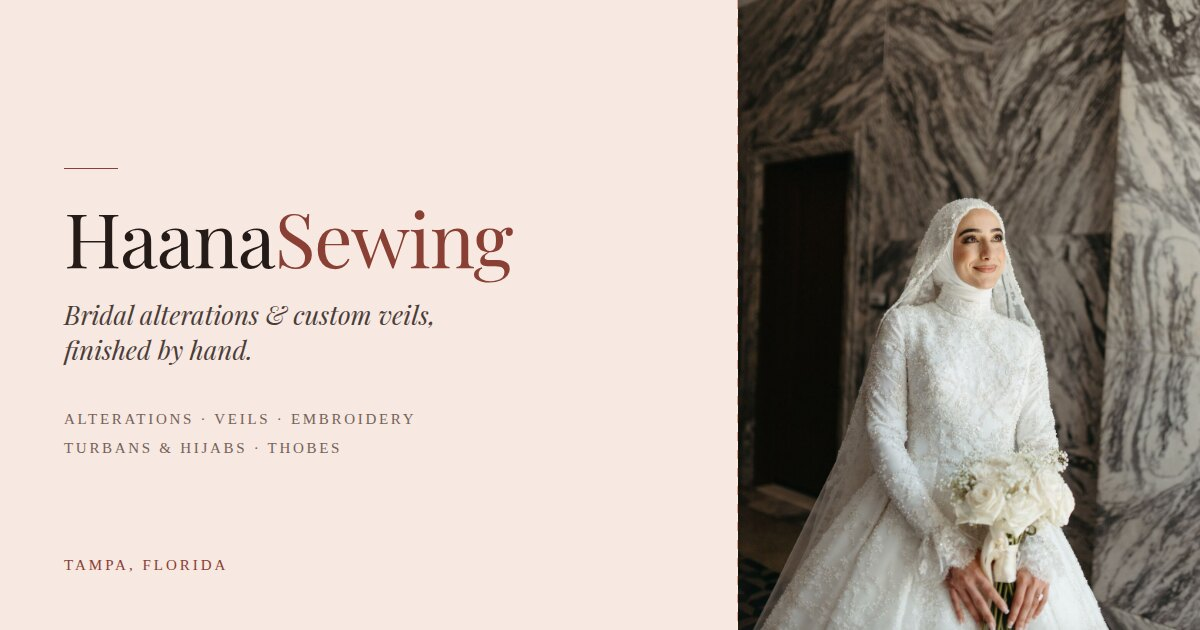
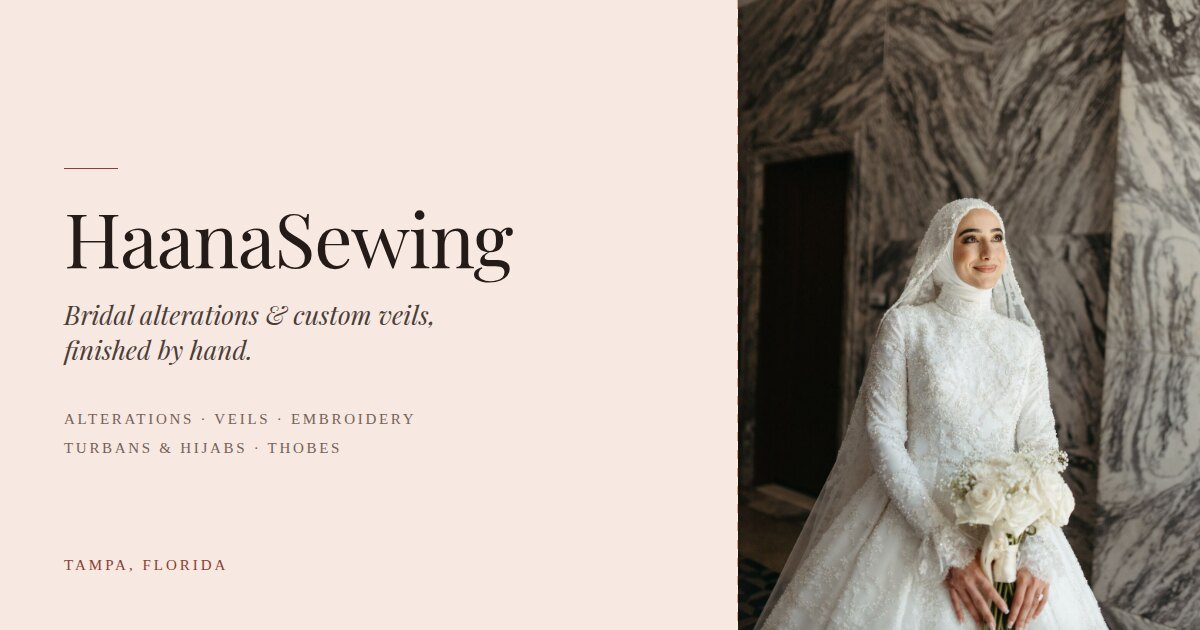
Wordmark is one colour, not two-tone
Omar: "make the Hanna sewing name all black." The "Sewing" half was russet
(--thread) against an ink "Haana".

Set to `inherit` rather than a literal black, in four places:
  - .wordmark span in the main stylesheet
  - .wordmark span again in the couture block, which redefines it
  - .intro-mark span on the intro curtain
  - .mark span on the 404 page
plus the social card.

inherit matters. A hardcoded #000 would be near-invisible in dark mode, where
--ink is #EDE4DF, and outright invisible on the intro curtain, which is a dark
ground with cream type. Inheriting means the name is a single colour on every
surface and in every theme: near-black #251C19 in light, cream in dark.

Verified both themes by screenshot.

Claude-Session: https://claude.ai/code/session_01QMQGgJ49GJVgbpZJub5Knr

Changed region(s): [[0.2158, 0.3317, 0.4317, 0.4524]]

diff --git a/index.html b/index.html
@@ -149,7 +149,7 @@
   header.site { padding: 2.25rem 0 0; }
   .brandbar { display: flex; justify-content: space-between; align-items: baseline; gap: 1rem; flex-wrap: wrap; }
   .wordmark { font-size: 1.35rem; letter-spacing: .04em; }
-  .wordmark span { color: var(--thread); }
+  .wordmark span { color: inherit; }
   nav.site { display: flex; gap: 1.6rem; flex-wrap: wrap; }
   nav.site a { color: var(--ink-soft); text-decoration: none; font-size: 14px; }
   nav.site a:hover { color: var(--thread); }
@@ -276,7 +276,7 @@
     body { font-size: 16px; }
   }
 /* Couture pattern-room redesign */
-:root{--ground:#F7E8E1;--surface:#FDF6F3;--surface-2:#EEDBD3;--ink:#251C19;--ink-soft:#4B3D39;--ink-mute:#756259;--line:#E4CEC4;--thread:#8A4034;--thread-soft:#A9C4D0;--deep:#33231E;--deep-ink:#F5EDE8;--focus:#8A4034}.draft,.buildnote{display:none}body{background:var(--ground);font-family:Optima,Avenir,"Segoe UI",sans-serif}.wrap{width:min(1180px,100% - 3.5rem)}header.site{position:relative;z-index:4;padding:1.55rem 0;background:var(--ground)}.brandbar{align-items:center}.wordmark{font-size:1.55rem;letter-spacing:.1em}.wordmark span{color:var(--thread)}nav.site a{font-size:11px;letter-spacing:.14em;text-transform:uppercase}.hero{position:relative;overflow:hidden;padding:clamp(4rem,10vw,8rem) 0 5.5rem;background:var(--deep);color:var(--deep-ink)}.hero:before{content:"";position:absolute;width:70vw;height:70vw;right:-25vw;top:-42vw;border:1px solid #A9C4D048;border-radius:50%;box-shadow:0 0 0 50px #A9C4D009,0 0 0 100px #A9C4D008,0 0 0 150px #A9C4D006;animation:orbit 14s ease-in-out infinite alternate}.hero:after{content:"";position:absolute;inset:0;background:repeating-linear-gradient(135deg,transparent 0 23px,#ffffff06 24px 25px);pointer-events:none}.hero-grid{position:relative;z-index:1;grid-template-columns:1fr .78fr;gap:7vw;align-items:center}.hero .label{color:var(--thread-soft)}.hero h1{font-size:clamp(3.6rem,8vw,7.5rem);line-height:.83;letter-spacing:-.065em}.hero h1 em{color:var(--thread-soft)}.hero .sub{font-size:1.08rem;line-height:1.7;color:#DFD1CA}.btn{border-radius:999px;padding:.9rem 1.55rem;font-size:11px;transition:transform .25s ease,box-shadow .25s ease}.btn-fill{background:var(--thread-soft);border-color:var(--thread-soft);color:#22140F}.btn-fill:hover{transform:translateY(-4px);background:var(--thread-soft);color:#22140F;box-shadow:0 10px 20px #0004}.btn-line{border-color:#F5EDE877;color:#F5EDE8}.hero .piece{height:min(50vw,580px);aspect-ratio:auto;justify-content:flex-end;border:1px solid #A9C4D070;border-radius:45% 45% 9% 9% / 18% 18% 5% 5%;background-color:#4A3C38;background-image:radial-gradient(ellipse at 50% 110%,#A9C4D035 0 30%,transparent 31%),repeating-linear-gradient(90deg,transparent 0 19px,#ffffff08 20px 21px);overflow:hidden;box-shadow:inset 0 0 0 12px #ffffff05,20px 24px 0 #0002}.hero .piece:after{content:"";position:absolute;inset:11% 17% 20%;border:1px solid #A9C4D070;border-radius:48% 48% 2% 2% / 20% 20% 2% 2%;transform:rotate(4deg)}.hero .piece .pname,.hero .piece .pnote{position:relative;z-index:2;color:#F5EDE8}.stitch{opacity:.7}.stitch-gold{background-image:repeating-linear-gradient(90deg,var(--thread) 0 9px,transparent 9px 17px)}section{padding:clamp(4rem,8vw,7rem) 0}.sec-head{margin-bottom:3.4rem}.sec-head h2{font-size:clamp(2.5rem,5vw,4.2rem);line-height:.92;letter-spacing:-.05em}.gallery{grid-template-columns:1.12fr .88fr 1fr;gap:1.15rem}.gallery .piece{border:0;border-radius:2px;background-color:#F1D3C8;background-image:linear-gradient(140deg,#ffffff4d,transparent 45%),repeating-linear-gradient(45deg,transparent 0 12px,#33231E10 13px 14px);box-shadow:0 12px 22px #33231E10;transition:transform .4s cubic-bezier(.2,.8,.2,1),box-shadow .4s}.gallery .piece:nth-child(2n){background-color:#C4D6DE}.gallery .piece:nth-child(3n){background-color:#DDCEC6}.gallery .piece:hover{transform:translateY(-9px) rotate(-1.2deg);box-shadow:0 23px 36px #33231E22}.gallery .piece::before{inset:13px;border-color:#fff9}.gallery .piece .pname{position:relative;font-family:Didot,Bodoni,Georgia,serif;font-size:1.45rem;letter-spacing:-.03em;color:#251C19}.gallery .piece .pnote{position:relative;color:#4B3D39}.gallery .piece.tall{aspect-ratio:4/10.4}.services{border-top:1px solid var(--line)}.svc{position:relative;padding:2rem .5rem;transition:padding .3s ease,background .3s}.svc:hover{padding-inline:1.4rem;background:var(--surface)}.svc h3{font-size:1.9rem}.price{color:var(--thread);font-family:Didot,Bodoni,Georgia,serif;font-size:1.5rem}.steps{gap:0;background:var(--deep);padding:1px}.step{position:relative;padding:2.3rem;background:#33231E;color:#F5EDE8;border:0;overflow:hidden}.step:nth-child(2){background:#4A3C38}.step:nth-child(3){background:#5E3A33}.step:after{content:"";position:absolute;width:150px;height:150px;right:-55px;bottom:-75px;border-radius:50%;border:1px solid #A9C4D065}.step .n{color:var(--thread-soft);font-size:3rem}.step h3{color:#fff}.step p{color:#DFD1CA}.faq{border-top:1px solid var(--line)}.faq details{transition:padding .2s}.faq details[open]{padding-left:1rem;background:var(--surface)}.faq summary{font-family:Didot,Bodoni,Georgia,serif;font-size:1.25rem}.closing{position:relative;overflow:hidden;background:var(--deep);padding:7rem 0}.closing:before{content:"✦";position:absolute;right:8vw;top:-1.3em;color:#A9C4D01c;font-size:25rem;line-height:1}.closing h2{font-size:clamp(3.5rem,7vw,6rem);line-height:.85}.closing .btn-line:hover{color:var(--deep-ink)}footer.site{background:var(--ground)}.rise{animation:rise .8s cubic-bezier(.2,.7,.3,1) both}.rise:nth-child(2){animation-delay:.12s}.rise:nth-child(3){animation-delay:.24s}@keyframes orbit{to{transform:translate(-80px,90px) scale(1.08)}}@media(max-width:860px){.hero-grid{grid-template-columns:1fr}.hero .piece{height:370px}.gallery{grid-template-columns:repeat(2,1fr)}.gallery .piece.tall{grid-row:auto;aspect-ratio:4/5}}@media(max-width:520px){.wrap{width:calc(100% - 2.4rem)}.hero{padding-top:4rem}.hero .piece{height:290px}.gallery{gap:.7rem}.gallery .piece .pname{font-size:1.1rem}.svc{grid-template-columns:1fr}.price{margin-top:.3rem}}
+:root{--ground:#F7E8E1;--surface:#FDF6F3;--surface-2:#EEDBD3;--ink:#251C19;--ink-soft:#4B3D39;--ink-mute:#756259;--line:#E4CEC4;--thread:#8A4034;--thread-soft:#A9C4D0;--deep:#33231E;--deep-ink:#F5EDE8;--focus:#8A4034}.draft,.buildnote{display:none}body{background:var(--ground);font-family:Optima,Avenir,"Segoe UI",sans-serif}.wrap{width:min(1180px,100% - 3.5rem)}header.site{position:relative;z-index:4;padding:1.55rem 0;background:var(--ground)}.brandbar{align-items:center}.wordmark{font-size:1.55rem;letter-spacing:.1em}.wordmark span{color:inherit}nav.site a{font-size:11px;letter-spacing:.14em;text-transform:uppercase}.hero{position:relative;overflow:hidden;padding:clamp(4rem,10vw,8rem) 0 5.5rem;background:var(--deep);color:var(--deep-ink)}.hero:before{content:"";position:absolute;width:70vw;height:70vw;right:-25vw;top:-42vw;border:1px solid #A9C4D048;border-radius:50%;box-shadow:0 0 0 50px #A9C4D009,0 0 0 100px #A9C4D008,0 0 0 150px #A9C4D006;animation:orbit 14s ease-in-out infinite alternate}.hero:after{content:"";position:absolute;inset:0;background:repeating-linear-gradient(135deg,transparent 0 23px,#ffffff06 24px 25px);pointer-events:none}.hero-grid{position:relative;z-index:1;grid-template-columns:1fr .78fr;gap:7vw;align-items:center}.hero .label{color:var(--thread-soft)}.hero h1{font-size:clamp(3.6rem,8vw,7.5rem);line-height:.83;letter-spacing:-.065em}.hero h1 em{color:var(--thread-soft)}.hero .sub{font-size:1.08rem;line-height:1.7;color:#DFD1CA}.btn{border-radius:999px;padding:.9rem 1.55rem;font-size:11px;transition:transform .25s ease,box-shadow .25s ease}.btn-fill{background:var(--thread-soft);border-color:var(--thread-soft);color:#22140F}.btn-fill:hover{transform:translateY(-4px);background:var(--thread-soft);color:#22140F;box-shadow:0 10px 20px #0004}.btn-line{border-color:#F5EDE877;color:#F5EDE8}.hero .piece{height:min(50vw,580px);aspect-ratio:auto;justify-content:flex-end;border:1px solid #A9C4D070;border-radius:45% 45% 9% 9% / 18% 18% 5% 5%;background-color:#4A3C38;background-image:radial-gradient(ellipse at 50% 110%,#A9C4D035 0 30%,transparent 31%),repeating-linear-gradient(90deg,transparent 0 19px,#ffffff08 20px 21px);overflow:hidden;box-shadow:inset 0 0 0 12px #ffffff05,20px 24px 0 #0002}.hero .piece:after{content:"";position:absolute;inset:11% 17% 20%;border:1px solid #A9C4D070;border-radius:48% 48% 2% 2% / 20% 20% 2% 2%;transform:rotate(4deg)}.hero .piece .pname,.hero .piece .pnote{position:relative;z-index:2;color:#F5EDE8}.stitch{opacity:.7}.stitch-gold{background-image:repeating-linear-gradient(90deg,var(--thread) 0 9px,transparent 9px 17px)}section{padding:clamp(4rem,8vw,7rem) 0}.sec-head{margin-bottom:3.4rem}.sec-head h2{font-size:clamp(2.5rem,5vw,4.2rem);line-height:.92;letter-spacing:-.05em}.gallery{grid-template-columns:1.12fr .88fr 1fr;gap:1.15rem}.gallery .piece{border:0;border-radius:2px;background-color:#F1D3C8;background-image:linear-gradient(140deg,#ffffff4d,transparent 45%),repeating-linear-gradient(45deg,transparent 0 12px,#33231E10 13px 14px);box-shadow:0 12px 22px #33231E10;transition:transform .4s cubic-bezier(.2,.8,.2,1),box-shadow .4s}.gallery .piece:nth-child(2n){background-color:#C4D6DE}.gallery .piece:nth-child(3n){background-color:#DDCEC6}.gallery .piece:hover{transform:translateY(-9px) rotate(-1.2deg);box-shadow:0 23px 36px #33231E22}.gallery .piece::before{inset:13px;border-color:#fff9}.gallery .piece .pname{position:relative;font-family:Didot,Bodoni,Georgia,serif;font-size:1.45rem;letter-spacing:-.03em;color:#251C19}.gallery .piece .pnote{position:relative;color:#4B3D39}.gallery .piece.tall{aspect-ratio:4/10.4}.services{border-top:1px solid var(--line)}.svc{position:relative;padding:2rem .5rem;transition:padding .3s ease,background .3s}.svc:hover{padding-inline:1.4rem;background:var(--surface)}.svc h3{font-size:1.9rem}.price{color:var(--thread);font-family:Didot,Bodoni,Georgia,serif;font-size:1.5rem}.steps{gap:0;background:var(--deep);padding:1px}.step{position:relative;padding:2.3rem;background:#33231E;color:#F5EDE8;border:0;overflow:hidden}.step:nth-child(2){background:#4A3C38}.step:nth-child(3){background:#5E3A33}.step:after{content:"";position:absolute;width:150px;height:150px;right:-55px;bottom:-75px;border-radius:50%;border:1px solid #A9C4D065}.step .n{color:var(--thread-soft);font-size:3rem}.step h3{color:#fff}.step p{color:#DFD1CA}.faq{border-top:1px solid var(--line)}.faq details{transition:padding .2s}.faq details[open]{padding-left:1rem;background:var(--surface)}.faq summary{font-family:Didot,Bodoni,Georgia,serif;font-size:1.25rem}.closing{position:relative;overflow:hidden;background:var(--deep);padding:7rem 0}.closing:before{content:"✦";position:absolute;right:8vw;top:-1.3em;color:#A9C4D01c;font-size:25rem;line-height:1}.closing h2{font-size:clamp(3.5rem,7vw,6rem);line-height:.85}.closing .btn-line:hover{color:var(--deep-ink)}footer.site{background:var(--ground)}.rise{animation:rise .8s cubic-bezier(.2,.7,.3,1) both}.rise:nth-child(2){animation-delay:.12s}.rise:nth-child(3){animation-delay:.24s}@keyframes orbit{to{transform:translate(-80px,90px) scale(1.08)}}@media(max-width:860px){.hero-grid{grid-template-columns:1fr}.hero .piece{height:370px}.gallery{grid-template-columns:repeat(2,1fr)}.gallery .piece.tall{grid-row:auto;aspect-ratio:4/5}}@media(max-width:520px){.wrap{width:calc(100% - 2.4rem)}.hero{padding-top:4rem}.hero .piece{height:290px}.gallery{gap:.7rem}.gallery .piece .pname{font-size:1.1rem}.svc{grid-template-columns:1fr}.price{margin-top:.3rem}}
 
   /* ================= Atelier intro =================
      The gown is drafted in russet thread, then the centre seam
@@ -331,7 +331,7 @@
     text-transform: uppercase; color: #F5EDE8;
     opacity: 0; animation: mark-in .8s ease 1.85s forwards;
   }
-  .intro-mark span { color: #A9C4D0; }
+  .intro-mark span { color: inherit; }
 
   .intro-skip {
     position: fixed; z-index: 3; right: 1.6rem; bottom: 1.5rem;

diff --git a/404.html b/404.html
@@ -31,7 +31,7 @@
   .box { max-width:30rem; }
   .mark { font-family:"Playfair Display", Didot, Georgia, serif;
           font-size:1.55rem; letter-spacing:.1em; }
-  .mark span { color:var(--thread); }
+  .mark span { color:inherit; }
   .rule { width:54px; height:1px; background:var(--thread); margin:2.4rem auto; }
   h1 { font-family:"Playfair Display", Didot, Georgia, serif; font-weight:400;
        font-size:clamp(2.4rem,7vw,3.6rem); line-height:1.05; letter-spacing:-.03em; }
